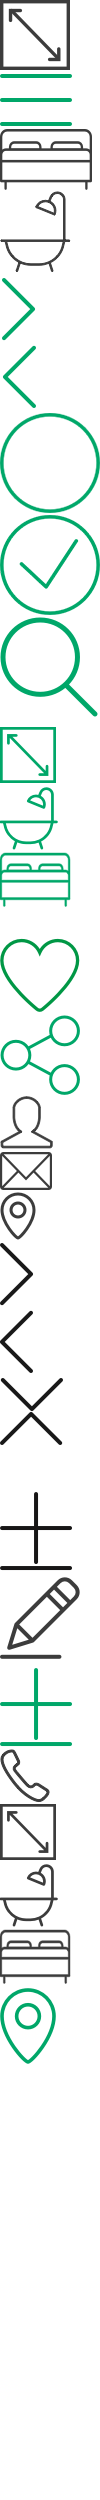
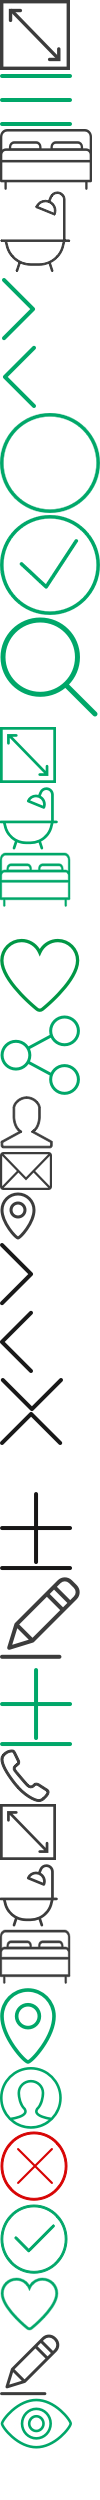
update html

Changed region(s): [[0.0, 0.8112, 0.69, 0.9984], [0.66, 0.9672, 0.72, 0.9984], [0.03, 0.9672, 0.06, 0.9984]]

diff --git a/apps/metvuong/frontend/web/themes/mv_mobile1/resources/css/style.css b/apps/metvuong/frontend/web/themes/mv_mobile1/resources/css/style.css
@@ -481,7 +481,7 @@ margin-top: 21px;
 }
 .icons-detail li {
     float: left;
-    margin-right: 24px;
+    margin-right: 30px;
     line-height: 100%;
 }
 .icons-detail li:last-child {
@@ -585,6 +585,7 @@ margin-top: 21px;
     overflow: hidden;
     color: #3c3c3c;
     font-size: 14px;
+    text-align: left;
 }
 .infor-agent .wrap-img {
     display: block;
@@ -593,10 +594,11 @@ margin-top: 21px;
     -moz-border-radius: 100%;
     -ms-border-radius: 100%;
     overflow: hidden;
-    width: 80px;
-    height: 80px;
+    width: 100px;
+    height: 100px;
     float: left;
-    margin-right: 15px;
+    margin-right: 25px;
+    border: 3px solid #d8d8d8;
 }
 .infor-agent .wrap-img img {
     width: 100%;
@@ -1300,11 +1302,12 @@ label {
 }
 .dropdown-select .arrowDown {
     position: absolute;
-    top: 13px;
+    top: 15px;
     right: 10px;
 }
 .dropdown-select .val-selected {
     padding-right: 0;
+    line-height: 40px;
 }
 .pagi a {
     display: block;
@@ -2182,15 +2185,15 @@ footer {
     margin-bottom: 30px;
 }
 .wrap-list-duan li {
-    box-shadow: 0 2px 1px 0 rgba(211, 211, 211, 0.5);
-    -webkit-box-shadow: 0 2px 1px 0 rgba(211, 211, 211, 0.5);
-    -moz-box-shadow: 0 2px 1px 0 rgba(211, 211, 211, 0.5);
-    -ms-box-shadow: 0 2px 1px 0 rgba(211, 211, 211, 0.5);
-    padding-bottom: 15px;
-    margin-bottom: 25px;
     float: left;
     width: 100%;
-    background: #fafafa;
+    background: #f5f5f5;
+    box-shadow: 0 1px 0 0 rgba(211, 211, 211, 0.5);
+    -webkit-box-shadow: 0 1px 0 0 rgba(211, 211, 211, 0.5);
+    -moz-box-shadow: 0 1px 0 0 rgba(211, 211, 211, 0.5);
+    -ms-box-shadow: 0 1px 0 0 rgba(211, 211, 211, 0.5);
+    margin-bottom: 25px;
+    padding: 20px 10px 10px;
 }
 .wrap-list-duan li:last-child {
     border-bottom: none;
@@ -2203,7 +2206,18 @@ footer {
     position: relative;
     width: 60%;
     float: left;
-    padding-left: 15px;
+    padding-left: 10px;
+    margin-top: -5px;
+    color: #3c3c3c;
+}
+.wrap-list-duan .intro-detail > div {
+    font-size: 14px;
+    margin-bottom: 5px;
+}
+.wrap-list-duan .intro-detail > div div {
+    display: inline-block;
+    width: 30px;
+    vertical-align: middle;
 }
 .wrap-list-duan .img-intro > a {
     display: inline-block;
@@ -2221,10 +2235,14 @@ footer {
     right: -7px;
     background-color: #fff;
 }
-.wrap-list-duan .intro-detail .name-duan {
-    border-bottom: solid 1.4px #a8a8a8;
-    padding-bottom: 10px;
-    margin-bottom: 10px;
+.wrap-list-duan .intro-detail .name-duan a {
+    line-height: 1.3;
+    letter-spacing: .5px;
+    color: #00a769;
+    font-size: 16px;
+    text-transform: uppercase;
+    display: block;
+    padding-right: 22px;
 }
 .wrap-list-duan .name a {
     text-transform: uppercase;
@@ -2232,7 +2250,7 @@ footer {
     font-size: 1.2em;
 }
 .wrap-list-duan p {
-    font-size: .85em;
+    
 }
 .wrap-list-duan .loca-duan {
     font-weight: 400;
@@ -2240,13 +2258,18 @@ footer {
 .wrap-list-duan .loca-duan em {
     margin-right: 5px;
 }
-.wrap-list-duan .date-post {
-    font-weight: 400;
-    margin: 5px 0;
+.wrap-list-duan .intro-detail .date-post {
+    font-size: 13px;
+    margin-bottom: 10px;
+    font-weight: 700;
+}
+@media screen and (min-width: 375px) {
+    .wrap-list-duan .date-post {
+        font-size: 14px;
+    }
 }
 .wrap-list-duan .intro-detail > p {
-    color: #3c3c3c;
-    font-size: .9em;
+    margin-bottom: 5px;
 }
 #scroll-top {
     position: fixed;
@@ -3037,14 +3060,14 @@ input[type=text]:focus {
 }
 .img-show {
 	position: relative;
+	background: #DEDEDE;
 	overflow: hidden;
-	background: gainsboro;
 }
 .img-show:before {
 	display: block;
-    content: "";
-    width: 100%;
-    padding-top: 65%;
+	content: "";
+	width: 100%;
+	padding-top: 65%;
 }
 .img-show > div {
     position: absolute;
@@ -3236,6 +3259,7 @@ input[type=text]:focus {
 }
 .infor-agent {
     margin-bottom: 20px;
+    display: inline-block;
 }
 .chat-btn,
 .email-btn {
@@ -3266,4 +3290,48 @@ input[type=text]:focus {
 }
 .page-home {
     visibility: hidden;
+}
+.wrap-list-duan li {
+    float: left;
+    width: 100%;
+}
+.wrap-list-duan li .img-show {
+    float: left;
+    width: 40%;
+}
+.icon-inactive-pro {
+    background-position: 0 -710px;
+    width: 23px;
+    height: 24px;
+}
+.icon-view-small {
+    background-position: 0 -799px;
+    width: 24px;
+    height: 17px;
+}
+.icon-per-small {
+    background-position: 0 -689px;
+    width: 21px;
+    height: 20px;
+}
+.icon-heart-small {
+    background-position: 0 -759px;
+    width: 20px;
+    height: 18px;
+}
+.icon-edit-small {
+    background-position: 0 -778px;
+    width: 20px;
+    height: 21px;
+}
+.wrap-list-duan .intro-detail .icon-edit-small {
+    position: absolute;
+    top: -5px;
+    right: 0;
+    background-color: #f5f5f5;
+}
+.icon-active-pro {
+    background-position: 0 -734px;
+    width: 23px;
+    height: 24px;
 }

diff --git a/apps/metvuong/frontend/web/themes/mv_mobile1/views/dashboard/ads/index.php b/apps/metvuong/frontend/web/themes/mv_mobile1/views/dashboard/ads/index.php
@@ -8,38 +8,27 @@ use yii\helpers\Url;
 	<?php if($products): ?>
 	<div class="wrap-list-duan">
 		<ul class="clearfix">
-			<!-- <li>
-				<div class="img-intro pull-left">
-					
-				</div>
-				<div class="intro-detail">
-					
-				</div>
-			</li> -->
 			<?php foreach($products as $product): ?>
 			<li>
-				<div class="img-intro pull-left">
-					<div class="img-show">
-						<div>
-							<a href="<?=Url::to(['/dashboard/statistics', 'id' => $product->id])?>"><img src="<?= $product->getImage() ?>"></a>
-						</div>
+				<div class="img-show">
+					<div>
+						<a href="<?=Url::to(['/dashboard/statistics', 'id' => $product->id])?>"><img src="<?= $product->getImage() ?>"></a>
 					</div>
-					<?php if($product->end_date < time()): ?>
-					<a class="unactive-pro" href="#"><em class="fa fa-close"></em>Inactive</a>
-					<?php else: ?>
-					<a class="active-pro" href="#"><em class="fa fa-check"></em>Active</a>
-					<?php endif; ?>
 				</div>
 				<div class="intro-detail">
-					<a href="#" class="icon-edit icon"></a>
-					<div class="name-duan">
-						<?php if($product->projectBuilding): ?>
-						<p class="name"><a href="<?=Url::to(['/dashboard/statistics', 'id' => $product->id])?>"><?= $product->projectBuilding->name ?></a></p>
-						<?php endif; ?>
-						<p class="date-post">Ngày đăng tin: <?= date("d/m/Y", $product->created_at) ?></p>
-						<p class="loca-duan"><em class="icon-pointer"></em> <?= $product->address ?></p>
-					</div>
-					<p><?= (count($product->content) > 162) ? mb_substr($product->content, 0, 162) . '...' : $product->content ?></p>
+					<a href="#" class="icon-edit-small icon"></a>
+					<?php if($product->projectBuilding): ?>
+					<p class="name-duan"><a href="<?=Url::to(['/dashboard/statistics', 'id' => $product->id])?>"><?= $product->projectBuilding->name ?></a></p>
+					<?php endif; ?>
+					<p class="date-post">Ngày đăng tin: <?= date("d/m/Y", $product->created_at) ?></p>
+					<?php if($product->end_date < time()): ?>
+					<div><div><span class="icon icon-inactive-pro"></span></div><strong>Inactive Project</strong></div>
+					<?php else: ?>
+					<div><div><span class="icon icon-active-pro"></span></div><strong>Active Project</strong></div>
+					<?php endif; ?>
+					<div><div><span class="icon icon-view-small"></span></div><strong>1000</strong> Lượt xem</div>
+					<div><div><span class="icon icon-per-small"></span></div><strong>300</strong> Visitor</div>
+					<div><div><span class="icon icon-heart-small"></span></div><strong>100</strong> Thích</div>
 				</div>
 			</li>
 			<?php endforeach; ?>

diff --git a/apps/metvuong/frontend/web/themes/mv_mobile1/views/ad/detail.php b/apps/metvuong/frontend/web/themes/mv_mobile1/views/ad/detail.php
@@ -153,8 +153,8 @@ use yii\helpers\Url;
                 </h4>
             </div>
             <div id="collapseEght" class="panel-collapse collapse in" role="tabpanel" aria-labelledby="headingSeven">
-                <div class="panel-body">
-                    <div class="infor-agent clearfix">
+                <div class="panel-body text-center">
+            	    <div class="infor-agent clearfix">
 			            <?php if(!empty($owner->username)) { ?>
 						<a href="<?=\yii\helpers\Url::to(['member/profile','username' => $owner->username])?>" class="wrap-img">
 			                <img src="<?= $avatar ?>" alt="" /></a>
@@ -220,6 +220,7 @@ use yii\helpers\Url;
 					<?php if(!empty($owner->username)) { ?>
 					<a href="<?=Url::to(['/chat/with', 'username'=>$owner->username])?>" id="" class="chat-btn btn-common btn-small pull-right">Chat</a>
 					<?php }?>
+					
                 </div>
             </div>
 
